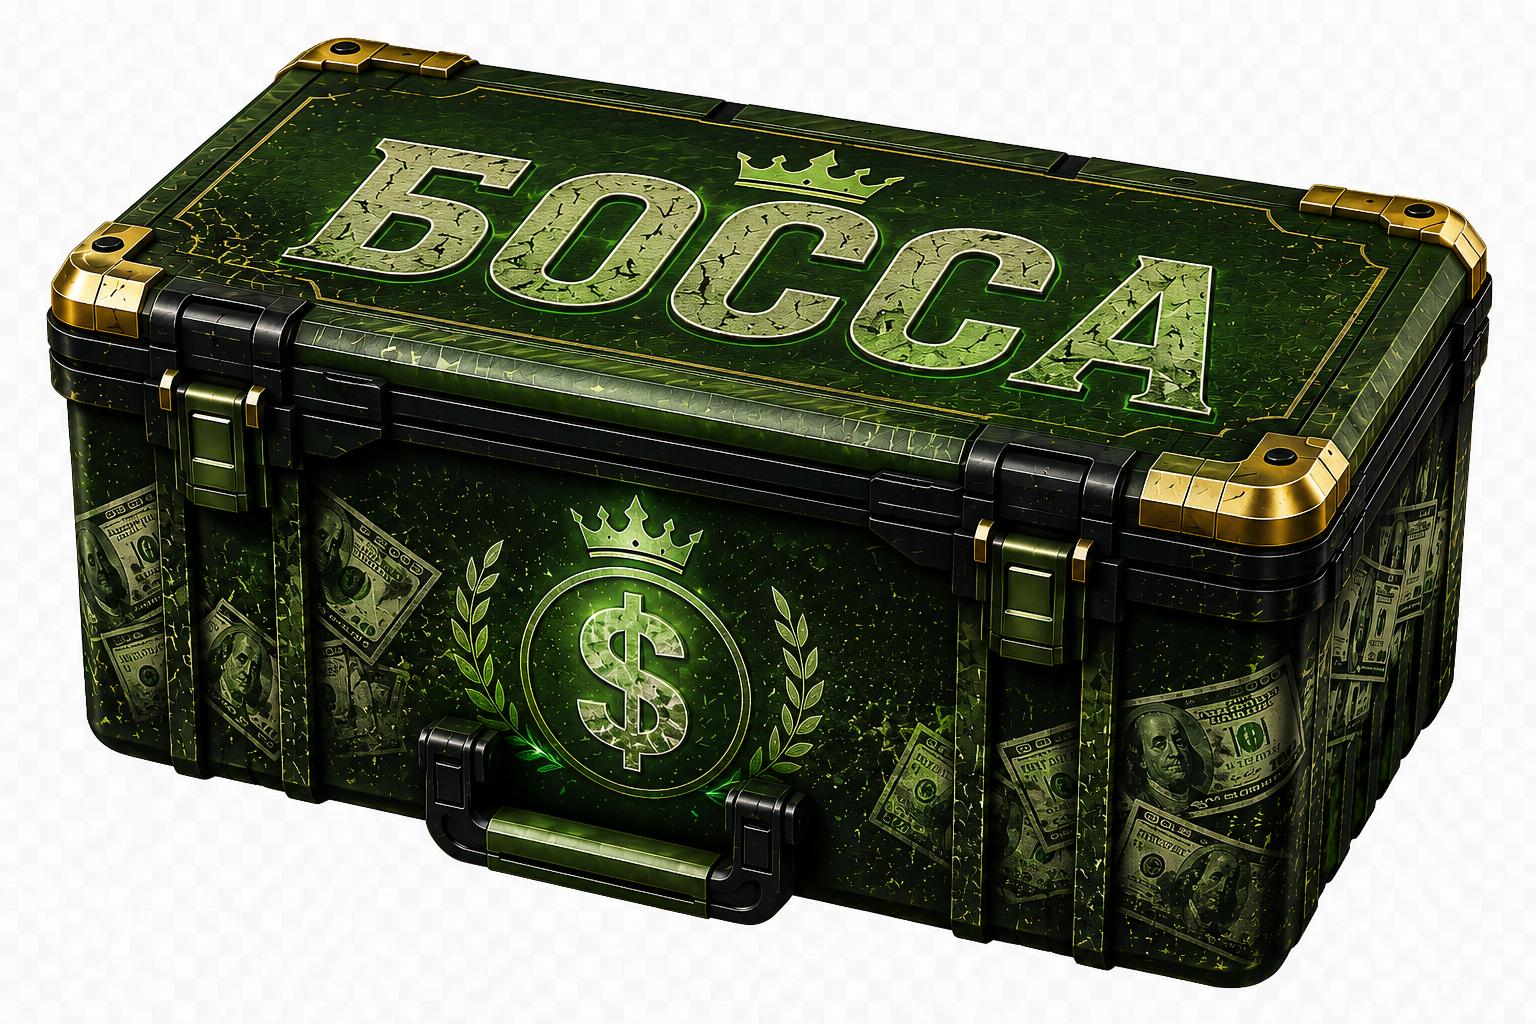
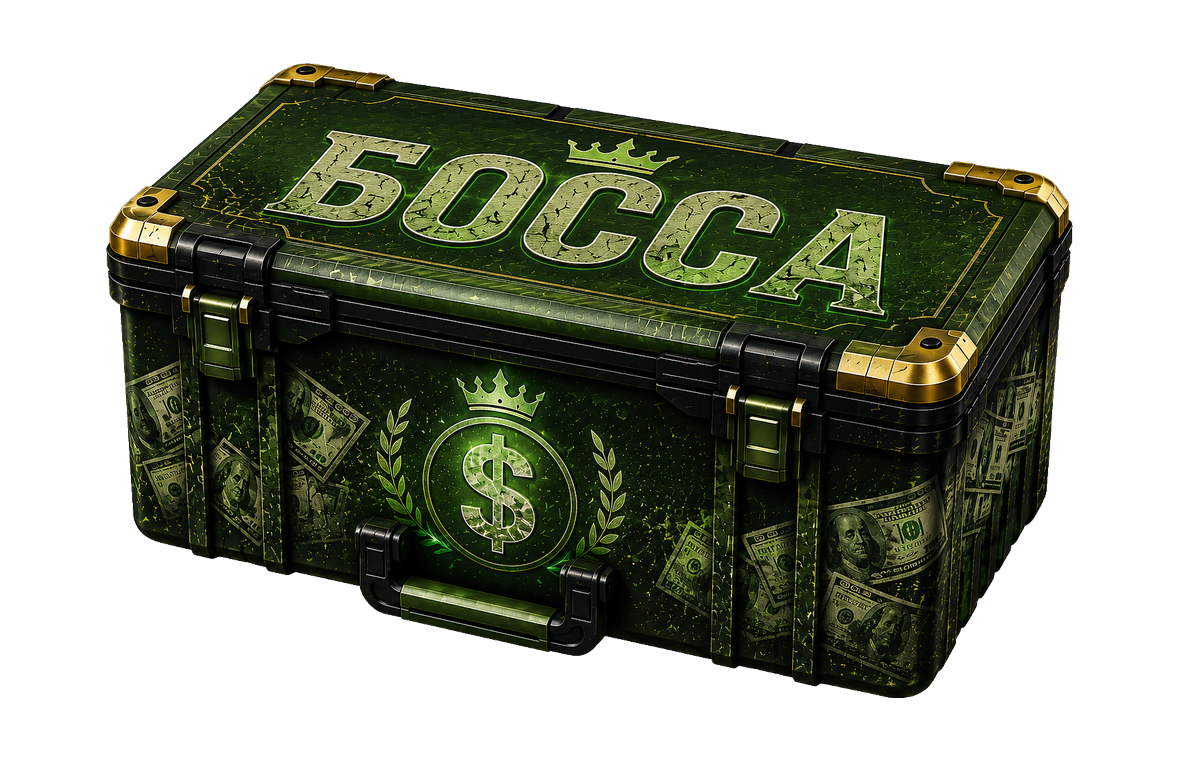
Обрезан белый фон у моделей новых кейсов, добавлена гармоничная посадка как у остальных

diff --git a/public/style.css b/public/style.css
@@ -29,4 +29,4 @@
 @keyframes crashFlash{0%,25%{background-color:#fff4cc;opacity:.95}100%{background-color:transparent;opacity:.4}}
 @keyframes launchpadPulse{to{box-shadow:0 0 0 9px #b4c7ff18,0 0 20px #a7c2ff88}}
 @keyframes gridDrift{to{transform:translateY(18px)}}
-@media (prefers-reduced-motion:reduce){.rocket-sky *,.rocket-sky::before,.rocket-sky::after{animation:none!important;transition:none!important}}.section-title{display:flex;justify-content:space-between;align-items:center;margin-bottom:12px}.section-title h2{margin:0}.section-title>span{font-size:30px}.cases{display:grid;grid-template-columns:repeat(auto-fit,minmax(220px,1fr));gap:12px;align-items:stretch}.case-card{display:flex;flex-direction:column;min-height:350px;border:1px solid #394878;border-radius:20px;padding:18px;background:linear-gradient(145deg,#202b50,#151c30);box-shadow:0 8px 24px #05081266}.case-art{height:168px;flex:0 0 168px;display:grid;place-items:center;overflow:hidden;font-size:58px;background:radial-gradient(circle at 50% 38%,#6352c4,#202b50 68%);border-radius:15px;margin-bottom:12px;padding:6px;animation:float 2.5s ease-in-out infinite}.case-art-image{display:block;width:100%;height:100%;object-fit:contain;object-position:50% 50%;transform:none!important;filter:drop-shadow(0 10px 12px #05081299)}.case-art-image--lucky{width:116%;height:116%;transform:translate(-5%,-10%)!important}.case-art img.case-art-image--baron{width:124%!important;height:124%!important;transform:translate(-1%,-7%)!important}.case-card h3{min-height:24px;margin:0 0 5px;font-size:20px}.case-price{min-height:19px;color:#ffda67;font-weight:bold;margin-bottom:12px}.reward-list{border-top:1px solid #344064;padding-top:9px}.reward-row{display:flex;justify-content:space-between;color:#bbc4df;font-size:12px;padding:4px 0}.reward-row b{color:#9d8eff}.reward-preview-list{display:grid;grid-template-columns:repeat(5,minmax(0,1fr));gap:6px;margin:10px 0 16px}.reward-preview{min-width:0;min-height:68px;display:grid;grid-template-rows:32px minmax(0,1fr);place-items:center;gap:3px;padding:5px 2px;border:1px solid #3c4b7e;border-radius:9px;background:#18213d;font-size:9px;text-align:center;line-height:1.1}.reward-preview .reel-placeholder{width:30px;height:30px;font-size:24px;line-height:30px}.reward-preview .reward-name{width:100%;overflow-wrap:anywhere;align-self:start}.case-card button{margin-top:auto}.topup-link{display:block;margin-top:8px;padding:11px;border:1px solid #3f4c7b;border-radius:10px;background:#10172b;color:#b9aeff;text-decoration:none;overflow-wrap:anywhere;font-size:12px}.reward-preview img,.reel-lot img{width:100%;height:100%;object-fit:contain;border-radius:8px}.case-card button,.modal button{width:100%;border:0;border-radius:11px;padding:12px;background:#7562ff;color:#fff;font-weight:bold;cursor:pointer;margin-top:13px}.modal{position:fixed;inset:0;display:grid;place-items:center;background:#080b16cc;opacity:0;pointer-events:none;transition:.25s;padding:20px}.modal.visible{opacity:1;pointer-events:auto}.modal-box{cursor:default}.modal-box{width:min(100%,380px);text-align:center;border:1px solid #5264a0;border-radius:25px;padding:25px;background:linear-gradient(145deg,#242e59,#12182b);transform:scale(.8);transition:.3s}.modal.visible .modal-box{transform:scale(1)}.case-icon{font-size:65px;animation:float 1s ease-in-out infinite}.modal-box h2{margin:8px 0}.reel{min-height:110px;overflow:hidden;display:flex;align-items:center;justify-content:center;border-radius:15px;background:radial-gradient(circle,#29386b,#0e1427 70%);color:#d4ceff;font-size:19px;font-weight:bold;margin:18px 0;border:1px solid #3f4c7b;position:relative}.reel::before,.reel::after{content:'';position:absolute;inset:8px;border:1px solid #7562ff55;border-radius:11px;pointer-events:none}.reel::after{inset:0;border:0;background:linear-gradient(90deg,#0e1427,transparent 25%,transparent 75%,#0e1427);z-index:2}.reel-prize{width:150px;height:94px;min-height:94px;padding:7px;display:grid;grid-template-rows:48px minmax(0,1fr);align-items:center;justify-items:center;gap:3px;position:absolute;left:50%;top:50%;z-index:3;border:1px solid #596eb2;border-radius:14px;background:#18213d;box-shadow:0 0 18px #7562ff55;font-size:13px;text-align:center;line-height:1.15;transform:translate(-50%,-50%);overflow:hidden}.reel-prize img,.reel-placeholder{display:block;width:48px;height:48px;flex:0 0 48px;margin:0 auto;object-fit:contain;border-radius:10px}.reel-prize span{display:flex;align-items:center;justify-content:center;width:100%;height:100%;padding:2px 4px;max-width:100%;overflow-wrap:anywhere;text-align:center;line-height:1.15}.prize-tick{animation:prizeTick .11s ease}.prize-final{animation:prizeFinal .8s ease;box-shadow:0 0 35px #ffda67aa}.reel.win{border-color:#ffda67;box-shadow:0 0 25px #ffda6744}.modal-box p{color:#bbc4df}.profile-box{text-align:left}.profile-box h2{text-align:center}.profile-info{padding:8px 0 12px}.profile-info p{margin:8px 0}.profile-box label{display:block;color:#bbc4df;font-size:12px;margin-top:12px}.profile-box input{display:block;width:100%;margin-top:6px;padding:11px;border:1px solid #3f4c7b;border-radius:10px;background:#10172b;color:#fff;outline:none}.profile-box button{margin-top:8px}.profile-box button:last-child{margin-top:14px;background:#3b466b}.withdraw-stars-button{background:#d69a24!important;margin:0 0 8px!important}.profile-section-button{background:#3b466b!important;margin:0 0 4px!important}.gifts-box{max-height:min(80vh,560px);overflow:auto;text-align:left}.modal-heading{display:flex;align-items:center;justify-content:space-between;gap:12px}.modal-heading h2{margin:0}.modal-heading .icon-button{width:34px;height:34px;min-width:34px;margin:0;padding:0;border-radius:50%;background:#3b466b;font-size:24px;line-height:1}.gifts-list{display:grid;gap:10px;margin-top:18px}.gift-card{display:grid;grid-template-columns:48px minmax(0,1fr) auto;align-items:center;gap:11px;padding:11px;border:1px solid #3f4c7b;border-radius:14px;background:#18213d}.gift-icon{display:grid;place-items:center;width:48px;height:48px;border-radius:12px;background:#283660;font-size:28px}.gift-card b{display:block;font-size:14px}.gift-card small{margin:4px 0 0;font-size:9px}.withdraw-button{padding:9px 10px;border-radius:9px;background:#7562ff;color:#fff;text-decoration:none;font-size:12px;font-weight:bold}.empty-gifts{margin:0;padding:22px 8px;text-align:center;line-height:1.5}.stats{display:grid;grid-template-columns:1fr;gap:12px}.stats>div{padding:17px}.stats b{font-size:22px}.stats b:first-letter{color:#ffda67}@media(max-width:380px){.rocket-controls{grid-template-columns:1fr}.rocket-controls button{min-height:42px}}@keyframes float{50%{transform:translateY(-7px) rotate(2deg)}}@keyframes prizeTick{50%{transform:translate(-50%,-50%) scale(1.12) rotate(2deg)}}@keyframes prizeFinal{0%{transform:translate(-50%,-50%) scale(.5) rotate(-8deg);opacity:.2}60%{transform:translate(-50%,-50%) scale(1.18) rotate(4deg)}100%{transform:translate(-50%,-50%) scale(1) rotate(0);opacity:1}}@keyframes win{50%{transform:scale(1.08);box-shadow:0 0 30px #ffda6788}}#toast{position:fixed;bottom:25px;left:50%;transform:translate(-50%,20px);opacity:0;background:#303b60;padding:12px 17px;border-radius:12px;transition:.2s;pointer-events:none}#toast.show{opacity:1;transform:translate(-50%,0)}
+@media (prefers-reduced-motion:reduce){.rocket-sky *,.rocket-sky::before,.rocket-sky::after{animation:none!important;transition:none!important}}.section-title{display:flex;justify-content:space-between;align-items:center;margin-bottom:12px}.section-title h2{margin:0}.section-title>span{font-size:30px}.cases{display:grid;grid-template-columns:repeat(auto-fit,minmax(220px,1fr));gap:12px;align-items:stretch}.case-card{display:flex;flex-direction:column;min-height:350px;border:1px solid #394878;border-radius:20px;padding:18px;background:linear-gradient(145deg,#202b50,#151c30);box-shadow:0 8px 24px #05081266}.case-art{height:168px;flex:0 0 168px;display:grid;place-items:center;overflow:hidden;font-size:58px;background:radial-gradient(circle at 50% 38%,#6352c4,#202b50 68%);border-radius:15px;margin-bottom:12px;padding:6px;animation:float 2.5s ease-in-out infinite}.case-art-image{display:block;width:100%;height:100%;object-fit:contain;object-position:50% 50%;transform:none!important;filter:drop-shadow(0 10px 12px #05081299)}.case-art-image--lucky{width:116%;height:116%;transform:translate(-5%,-10%)!important}.case-art img.case-art-image--baron{width:124%!important;height:124%!important;transform:translate(-1%,-7%)!important}.case-art img.case-art-image--star,.case-art img.case-art-image--boss,.case-art img.case-art-image--major{width:110%;height:110%;transform:translate(-5%,-5%)!important}.case-card h3{min-height:24px;margin:0 0 5px;font-size:20px}.case-price{min-height:19px;color:#ffda67;font-weight:bold;margin-bottom:12px}.reward-list{border-top:1px solid #344064;padding-top:9px}.reward-row{display:flex;justify-content:space-between;color:#bbc4df;font-size:12px;padding:4px 0}.reward-row b{color:#9d8eff}.reward-preview-list{display:grid;grid-template-columns:repeat(5,minmax(0,1fr));gap:6px;margin:10px 0 16px}.reward-preview{min-width:0;min-height:68px;display:grid;grid-template-rows:32px minmax(0,1fr);place-items:center;gap:3px;padding:5px 2px;border:1px solid #3c4b7e;border-radius:9px;background:#18213d;font-size:9px;text-align:center;line-height:1.1}.reward-preview .reel-placeholder{width:30px;height:30px;font-size:24px;line-height:30px}.reward-preview .reward-name{width:100%;overflow-wrap:anywhere;align-self:start}.case-card button{margin-top:auto}.topup-link{display:block;margin-top:8px;padding:11px;border:1px solid #3f4c7b;border-radius:10px;background:#10172b;color:#b9aeff;text-decoration:none;overflow-wrap:anywhere;font-size:12px}.reward-preview img,.reel-lot img{width:100%;height:100%;object-fit:contain;border-radius:8px}.case-card button,.modal button{width:100%;border:0;border-radius:11px;padding:12px;background:#7562ff;color:#fff;font-weight:bold;cursor:pointer;margin-top:13px}.modal{position:fixed;inset:0;display:grid;place-items:center;background:#080b16cc;opacity:0;pointer-events:none;transition:.25s;padding:20px}.modal.visible{opacity:1;pointer-events:auto}.modal-box{cursor:default}.modal-box{width:min(100%,380px);text-align:center;border:1px solid #5264a0;border-radius:25px;padding:25px;background:linear-gradient(145deg,#242e59,#12182b);transform:scale(.8);transition:.3s}.modal.visible .modal-box{transform:scale(1)}.case-icon{font-size:65px;animation:float 1s ease-in-out infinite}.modal-box h2{margin:8px 0}.reel{min-height:110px;overflow:hidden;display:flex;align-items:center;justify-content:center;border-radius:15px;background:radial-gradient(circle,#29386b,#0e1427 70%);color:#d4ceff;font-size:19px;font-weight:bold;margin:18px 0;border:1px solid #3f4c7b;position:relative}.reel::before,.reel::after{content:'';position:absolute;inset:8px;border:1px solid #7562ff55;border-radius:11px;pointer-events:none}.reel::after{inset:0;border:0;background:linear-gradient(90deg,#0e1427,transparent 25%,transparent 75%,#0e1427);z-index:2}.reel-prize{width:150px;height:94px;min-height:94px;padding:7px;display:grid;grid-template-rows:48px minmax(0,1fr);align-items:center;justify-items:center;gap:3px;position:absolute;left:50%;top:50%;z-index:3;border:1px solid #596eb2;border-radius:14px;background:#18213d;box-shadow:0 0 18px #7562ff55;font-size:13px;text-align:center;line-height:1.15;transform:translate(-50%,-50%);overflow:hidden}.reel-prize img,.reel-placeholder{display:block;width:48px;height:48px;flex:0 0 48px;margin:0 auto;object-fit:contain;border-radius:10px}.reel-prize span{display:flex;align-items:center;justify-content:center;width:100%;height:100%;padding:2px 4px;max-width:100%;overflow-wrap:anywhere;text-align:center;line-height:1.15}.prize-tick{animation:prizeTick .11s ease}.prize-final{animation:prizeFinal .8s ease;box-shadow:0 0 35px #ffda67aa}.reel.win{border-color:#ffda67;box-shadow:0 0 25px #ffda6744}.modal-box p{color:#bbc4df}.profile-box{text-align:left}.profile-box h2{text-align:center}.profile-info{padding:8px 0 12px}.profile-info p{margin:8px 0}.profile-box label{display:block;color:#bbc4df;font-size:12px;margin-top:12px}.profile-box input{display:block;width:100%;margin-top:6px;padding:11px;border:1px solid #3f4c7b;border-radius:10px;background:#10172b;color:#fff;outline:none}.profile-box button{margin-top:8px}.profile-box button:last-child{margin-top:14px;background:#3b466b}.withdraw-stars-button{background:#d69a24!important;margin:0 0 8px!important}.profile-section-button{background:#3b466b!important;margin:0 0 4px!important}.gifts-box{max-height:min(80vh,560px);overflow:auto;text-align:left}.modal-heading{display:flex;align-items:center;justify-content:space-between;gap:12px}.modal-heading h2{margin:0}.modal-heading .icon-button{width:34px;height:34px;min-width:34px;margin:0;padding:0;border-radius:50%;background:#3b466b;font-size:24px;line-height:1}.gifts-list{display:grid;gap:10px;margin-top:18px}.gift-card{display:grid;grid-template-columns:48px minmax(0,1fr) auto;align-items:center;gap:11px;padding:11px;border:1px solid #3f4c7b;border-radius:14px;background:#18213d}.gift-icon{display:grid;place-items:center;width:48px;height:48px;border-radius:12px;background:#283660;font-size:28px}.gift-card b{display:block;font-size:14px}.gift-card small{margin:4px 0 0;font-size:9px}.withdraw-button{padding:9px 10px;border-radius:9px;background:#7562ff;color:#fff;text-decoration:none;font-size:12px;font-weight:bold}.empty-gifts{margin:0;padding:22px 8px;text-align:center;line-height:1.5}.stats{display:grid;grid-template-columns:1fr;gap:12px}.stats>div{padding:17px}.stats b{font-size:22px}.stats b:first-letter{color:#ffda67}@media(max-width:380px){.rocket-controls{grid-template-columns:1fr}.rocket-controls button{min-height:42px}}@keyframes float{50%{transform:translateY(-7px) rotate(2deg)}}@keyframes prizeTick{50%{transform:translate(-50%,-50%) scale(1.12) rotate(2deg)}}@keyframes prizeFinal{0%{transform:translate(-50%,-50%) scale(.5) rotate(-8deg);opacity:.2}60%{transform:translate(-50%,-50%) scale(1.18) rotate(4deg)}100%{transform:translate(-50%,-50%) scale(1) rotate(0);opacity:1}}@keyframes win{50%{transform:scale(1.08);box-shadow:0 0 30px #ffda6788}}#toast{position:fixed;bottom:25px;left:50%;transform:translate(-50%,20px);opacity:0;background:#303b60;padding:12px 17px;border-radius:12px;transition:.2s;pointer-events:none}#toast.show{opacity:1;transform:translate(-50%,0)}

diff --git a/public/app.js b/public/app.js
@@ -375,11 +375,15 @@ function showCase(item) {
   const card=document.createElement('article');
   card.className='case-card';
   // «Барон» увеличен на 5%; для «Удачи» сохранена отдельная посадка модели.
+  // Новые модели (звезда/босс/мажор) приходят с прозрачными полями и слегка
+  // увеличиваются, чтобы визуально совпадать с халявой и бароном.
   const imageClass = item.id === 'lucky'
     ? ' case-art-image--lucky'
     : item.id === 'baron'
       ? ' case-art-image--baron'
-      : '';
+      : ['star', 'boss', 'major'].includes(item.id)
+        ? ` case-art-image--${item.id}`
+        : '';
   const caseArt = item.image
     ? `<img class="case-art-image${imageClass}" src="${escapeHtml(item.image)}" alt="${escapeHtml(item.name)}" loading="lazy">`
     : '🎁';
